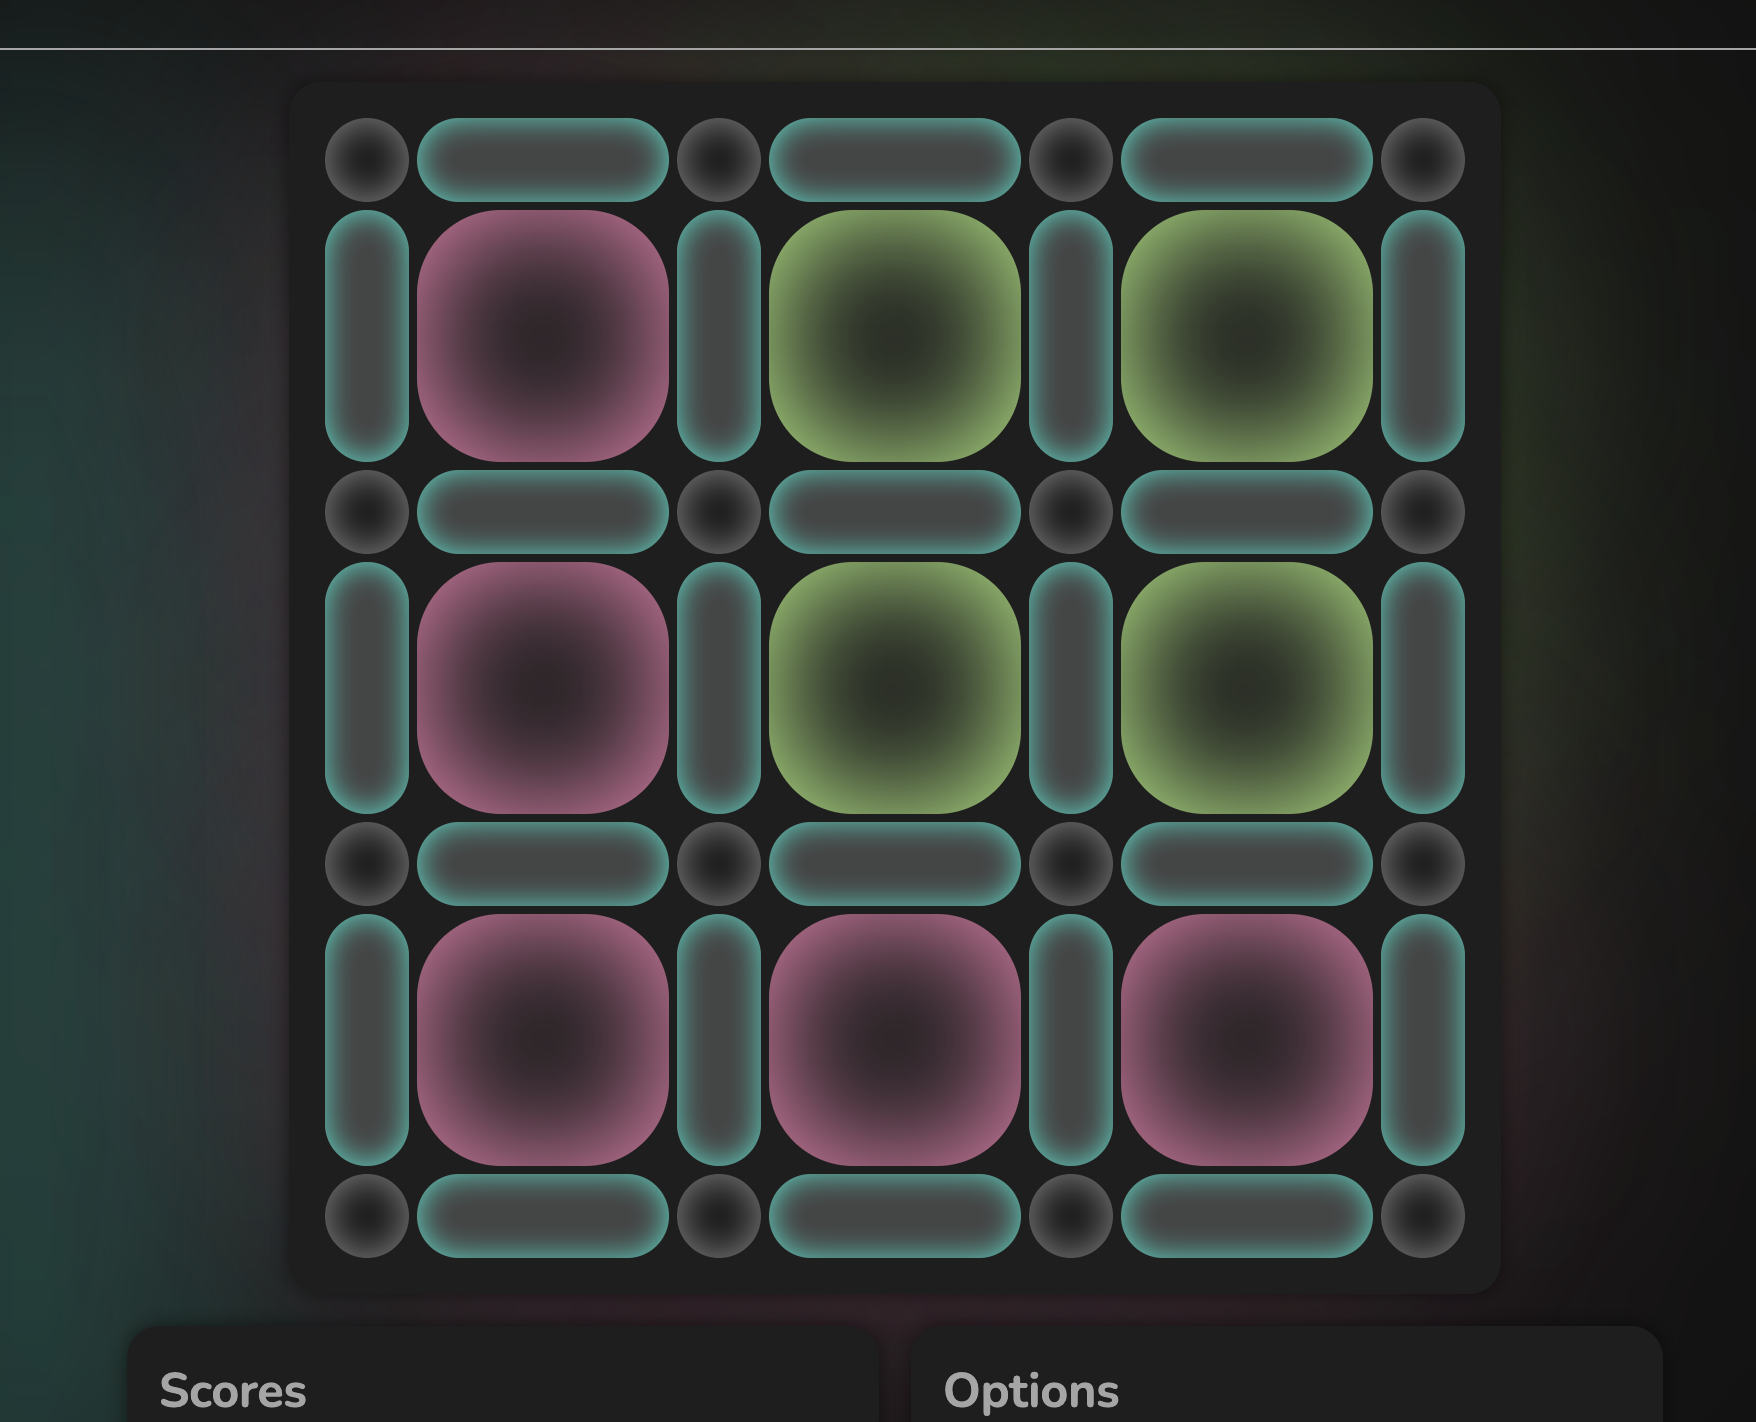
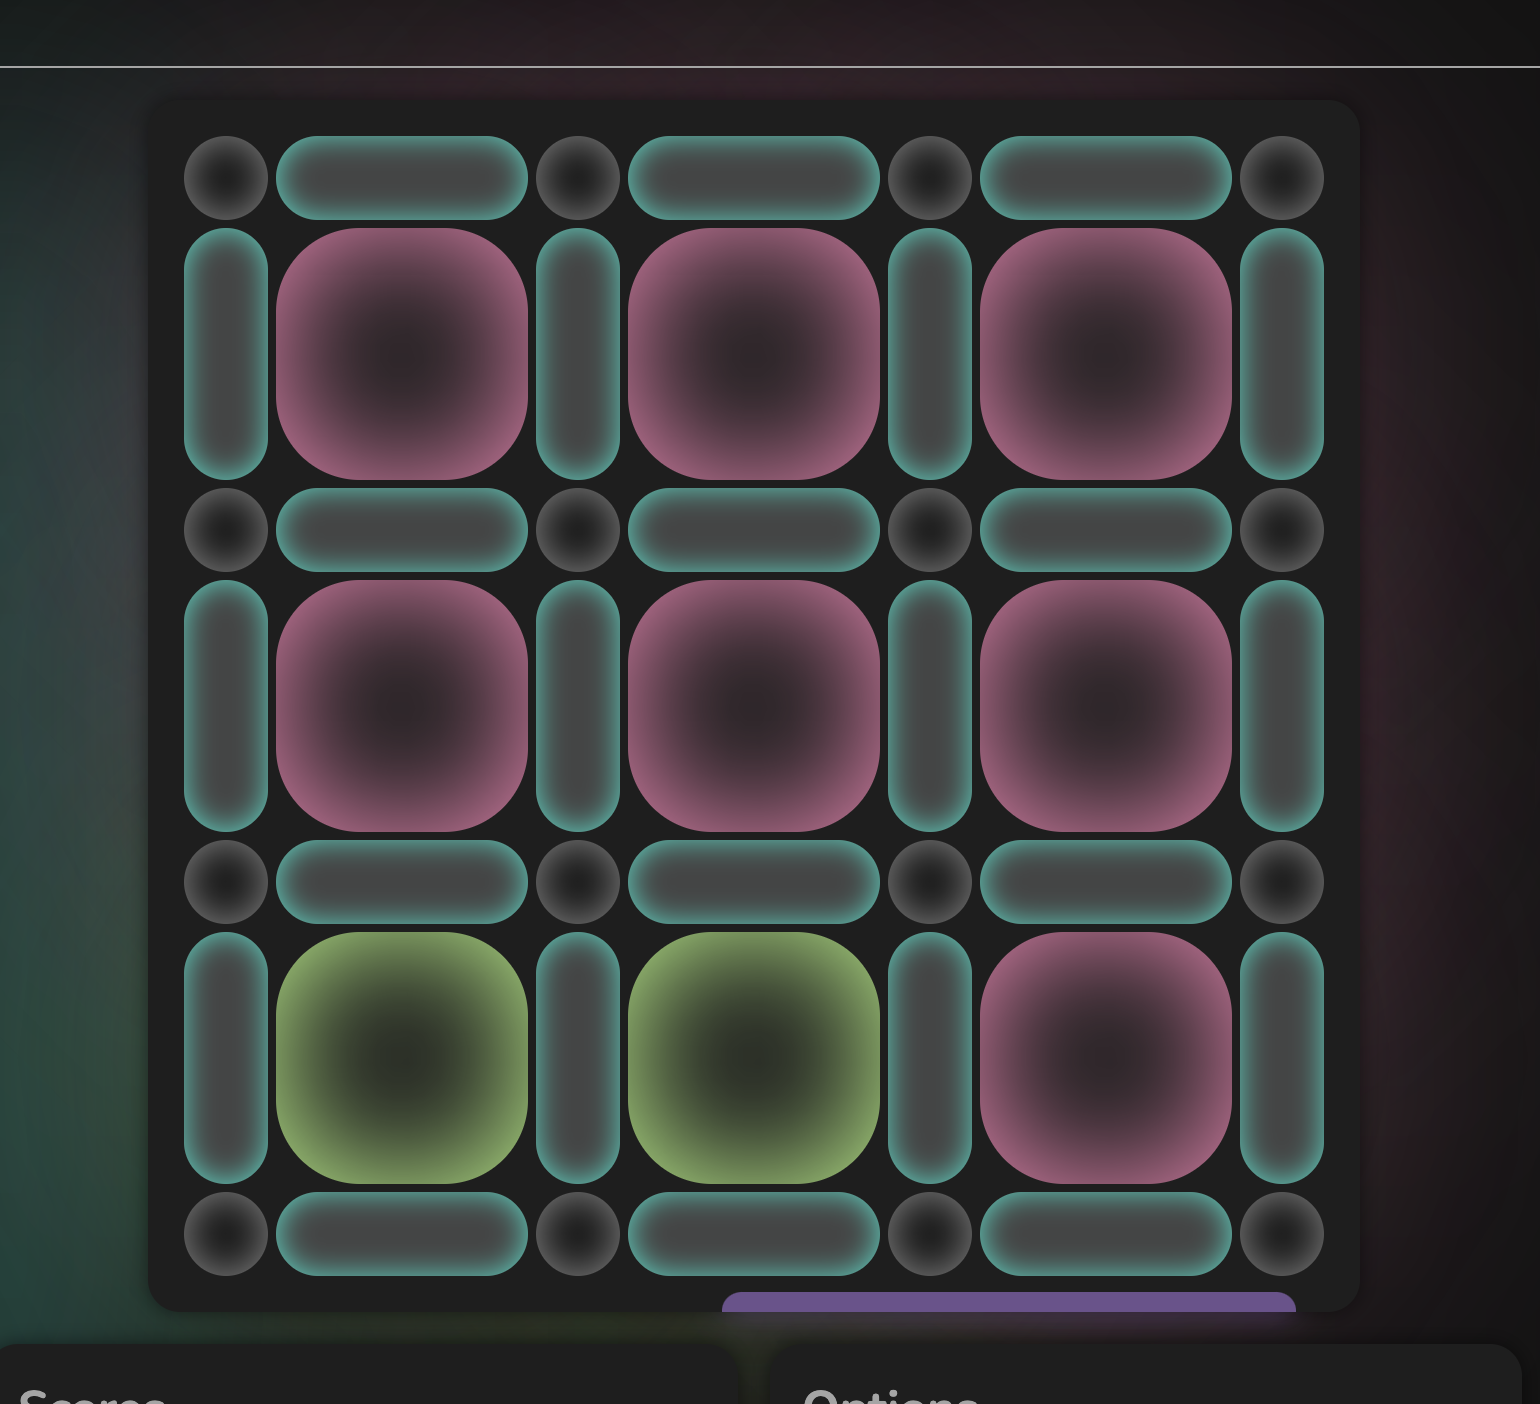
doc: add two new features to README.md
1. Most recently drawn border highlight feature
2. Turn indicator slider feature
closes #69

diff --git a/README.md b/README.md
@@ -113,6 +113,10 @@ This section will allow the user to play the Käsekästchen game. The user will 
 #### AI Opponent
 The AI opponent is implemented in the game logic and will play against the user. The AI opponent will play a random move on the "Easy" difficulty level. The "Medium" difficulty follows an algorithm. Check it out in the code comments in the !!Link TO FILE!! file. The "Hard" difficulty is currently disabled and in development.
 
+#### Turn indicator slider
+At the bottom of the gameboard, a slider indicates whose turn it is. The slider is coloured after the active player's colour. The slider will move to the left when it's the player's turn and to the right when it's the AI's turn.
+
+![feature-turn-indicator](documentation/feature-turn-indicator.png)
 
 #### Score Card
 This section will allow the user to see exactly how many squares they have completed and how many squares their opponent has completed, indicating who is winning. The Score Card will also display the name of the player and the difficulty level of the AI. Lastly it indicates whose turn it is by colouring the background of the active player's name and score.
@@ -141,7 +145,7 @@ This section will allow the user to see copyright information. The footer also c
 ![feature-footer](documentation/feature-footer.png)
 
 #### Background Blur Design elements
-The background blur design elements are used to create a more interesting and playful design. The background blur elements are used behind the header and the footer. When the game is played, more backgorund blur elements are generated behind the gameboard. These elements are coloured after the player colours, depending on who completed which box.
+The background blur design elements are used to create a more interesting and playful design. The background blur elements are used behind the header and the footer. When the game is played, more backgorund blur elements are generated behind the gameboard. These elements are coloured after the player colours, depending on who completed which box. The slider indicator also has a corresponding background blur element.
 
 ![feature-background-blur](documentation/feature-background-blur.png)
 
